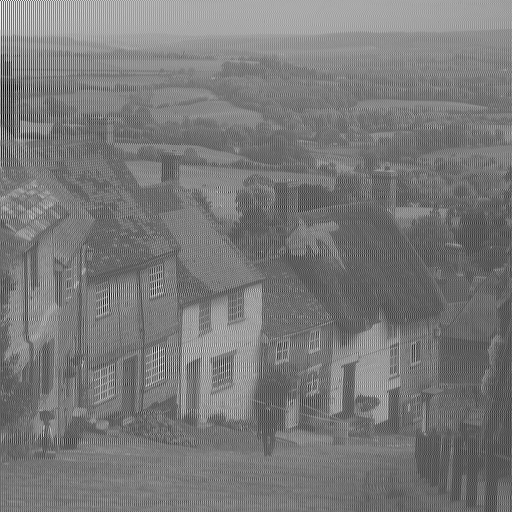
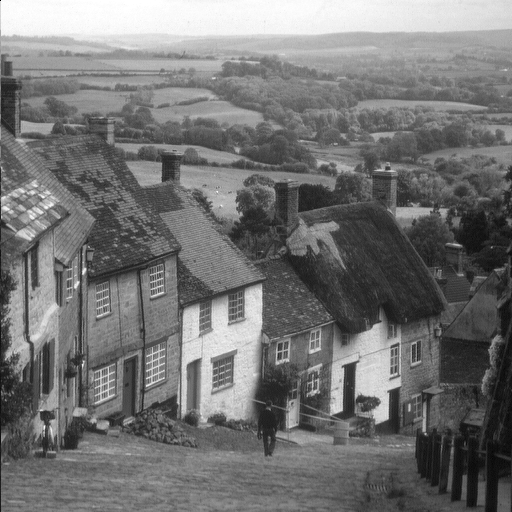
modif, 4 coeff

diff --git a/main.py b/main.py
@@ -15,12 +15,13 @@ def retirerAberrations(img):
     z_1 = 0
     z_2 = -0.99
     z_3 = 0.8
+    z_4 = -0.99
     p_1 = 0.9 * pow(np.e, 1j * np.pi / 2)
     p_2 = 0.9 * pow(np.e, -1j * np.pi / 2)
     p_3 = 0.95 * pow(np.e, 1j * np.pi / 8)
     p_4 = 0.95 * pow(np.e, -1j * np.pi / 8)
 
-    coeff_num = np.poly([z_1, z_2, z_3])
+    coeff_num = np.poly([z_1, z_2, z_3, z_4])
     coeff_denum = np.poly([p_1, p_2, p_3, p_4])
 
     #zp.zplane(coeff_num, coeff_denum)
